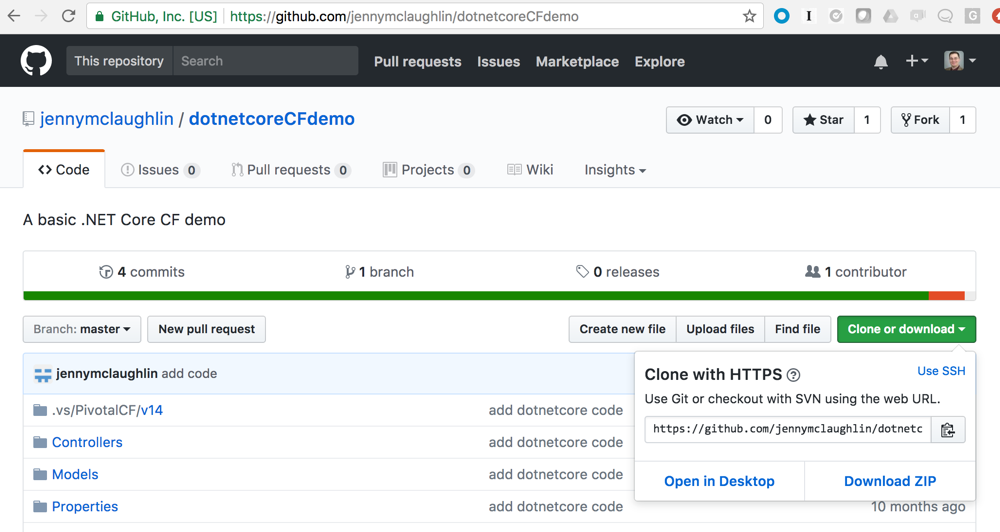
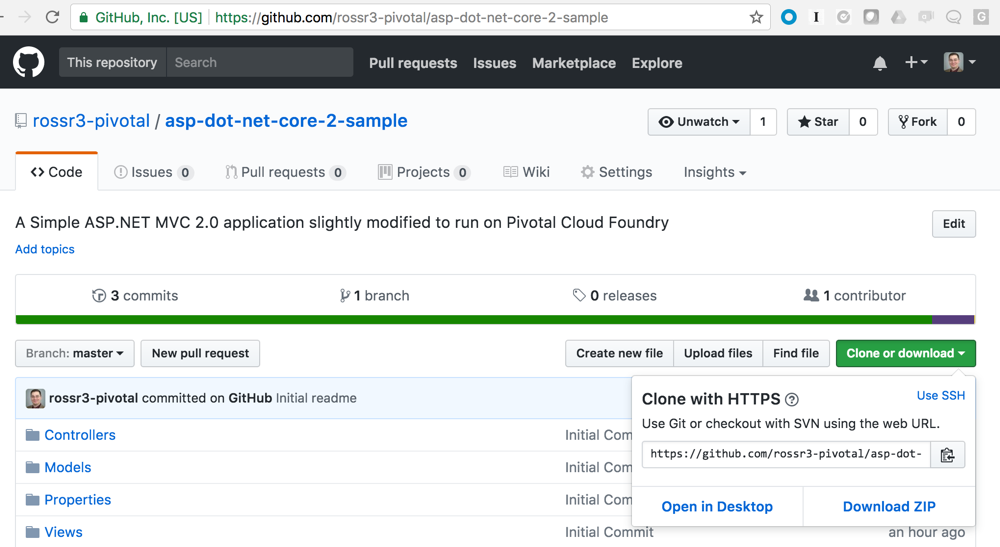
Updated .NET Core app to be a 2.0 app

diff --git a/content/post/lab-9.md b/content/post/lab-9.md
@@ -16,7 +16,7 @@ To deploy a Microsoft Framework .NET Application and a .NET Core Application to 
 
 Prerequisites
 --
-1. Install .NET Core 1.x
+1. Install .NET Core 2.0
 
     [.NET Core](https://www.microsoft.com/net/core)
 
@@ -49,9 +49,9 @@ Prerequisites
 	C:\<Some Directory to save code>\> git clone https://github.com/Pivotal-Field-Engineering/pcf-dotnet-environment-viewer.git
 	```
 	
-3. Clone or Download the Dot Net Core Demo Source Code
+3. Clone or Download the ASP.NET Core 2 Sample
 
-	[Dot Net Core Repo:  https://github.com/jennymclaughlin/dotnetcoreCFdemo](https://github.com/jennymclaughlin/dotnetcoreCFdemo)
+	[ASP.NET Core Repo:  https://github.com/rossr3-pivotal/asp-dot-net-core-2-sample](https://github.com/rossr3-pivotal/asp-dot-net-core-2-sample)
 
 	##### Get the source code repository app
 
@@ -60,22 +60,22 @@ Prerequisites
 	Download the source code. Download as Zip file and save it in local folder
 
 	```bash
-	   unzip dotnetcoreCFdemo-master.zip
+	   unzip asp-dot-net-core-2-sample-master.zip
 	```
 	##### ---OR---
 
 	Fork and Clone
 
-	[Dot Net Core Repo:  https://github.com/jennymclaughlin/dotnetcoreCFdemo](https://github.com/jennymclaughlin/dotnetcoreCFdemo)
+	[Dot Net Core Repo:  https://github.com/rossr3-pivotal/asp-dot-net-core-2-sample](https://github.com/rossr3-pivotal/asp-dot-net-core-2-sample)
 
 	For Linux/Mac:
 	```bash
-	$git clone https://github.com/jennymclaughlin/dotnetcoreCFdemo.git
+	$git clone https://github.com/rossr3-pivotal/asp-dot-net-core-2-sample.git
 	```
 
 	For Windows
 	```
-	C:\<Some Directory to save code>\> git clone https://github.com/jennymclaughlin/dotnetcoreCFdemo.git
+	C:\<Some Directory to save code>\> git clone https://github.com/rossr3-pivotal/asp-dot-net-core-2-sample.git
 	```
 
 
@@ -176,22 +176,22 @@ When you push the apps, PCF will provide an URL to access the application
 
 ### Step 1
 ##### Build the Dot Net Core Demo Application
-By this point, you should have cloned (or forked, or downloaded) the [Dot Net Core Repo:  https://github.com/jennymclaughlin/dotnetcoreCFdemo](https://github.com/jennymclaughlin/dotnetcoreCFdemo).  Let's run through the steps to prepare the applicatio to be deployed to Cloud Foundry:
+By this point, you should have cloned (or forked, or downloaded) the [Dot Net Core Repo:  https://github.com/rossr3-pivotal/asp-dot-net-core-2-sample](https://github.com/rossr3-pivotal/asp-dot-net-core-2-sample).  Let's run through the steps to prepare the applicatio to be deployed to Cloud Foundry:
 
-  ```bash
-  $ cd ../../dotnetcoreCFdemo
-  $ dotnet restore
-  $ dotnet build
-  $ cf push <YOUR-INITIALS>-dotnetdemo --random-route 
-  // This will give an output which is similar to this
-  requested state: started
-  instances: 1/1
-  usage: 1G x 1 instances
-  urls: dotnetdemo-surreptitious-supercapability.app.cloud.rick-ross.com
-  last uploaded: Thu Aug 31 20:17:49 UTC 2017
-  stack: cflinuxfs2
-  buildpack: ASP.NET Core (buildpack-1.0.19)
-  ```
+    ```bash
+    $ cd asp-dot-net-core-2-sample
+    $ dotnet restore
+    $ dotnet publish -f netcoreapp2.0 -r ubuntu.14.04-x64
+    $ cf push <YOUR-INITIALS>-dotnetcore -p bin\Debug\netcoreapp2.0\ubuntu.14.04-x64\publish --random-route 
+    // This will give an output which is similar to this
+    requested state: started
+    instances: 1/1
+    usage: 1G x 1 instances
+    urls: dotnetcore-rootless-eeriness.app.cloud.rick-ross.com
+    last uploaded: Sat Sep 2 17:46:35 UTC 2017
+    stack: cflinuxfs2
+    buildpack: ASP.NET Core (buildpack-1.0.25)
+    ```
 
 ### Step 2
 ##### Open the Application in a Browser
